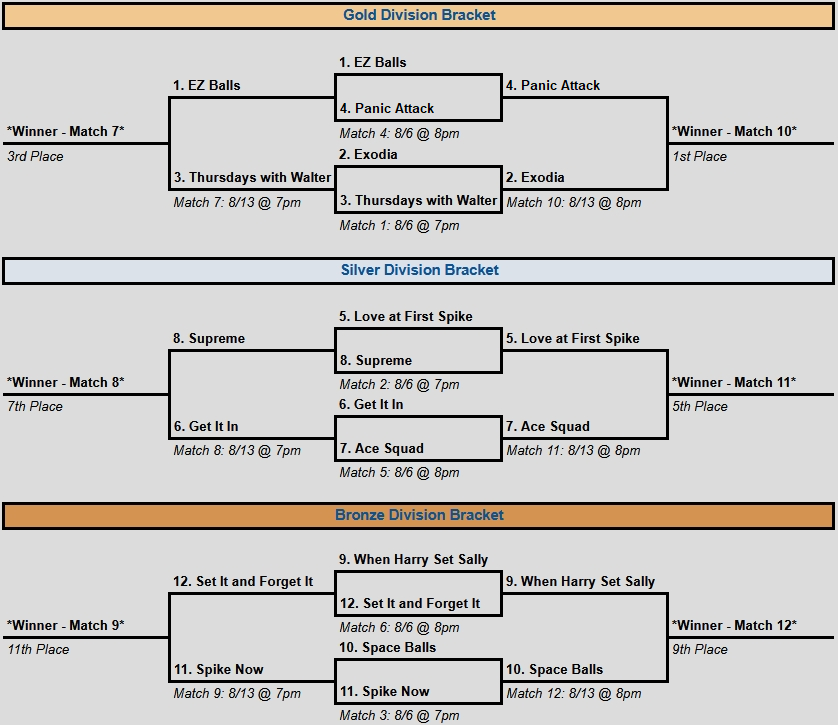
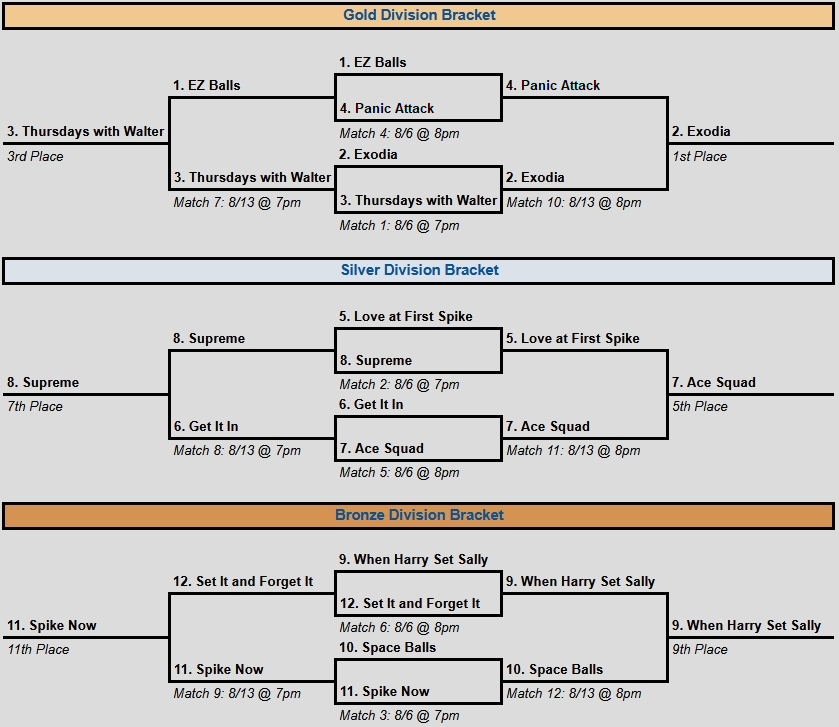
p2 scores

diff --git a/coed/dvb_sum26.html b/coed/dvb_sum26.html
@@ -1678,33 +1678,33 @@
         </tr>
         <tr>
           <td class="box_score_top_team_white">EZ Balls</td>
-          <td class="box_score_top_score_white"></td>
+          <td class="box_score_top_score_white">0</td>
         </tr>
         <tr>
           <td class="box_score_bot_team_white">Thursdays with Walter</td>
-          <td class="box_score_bot_score_white"></td>
+          <td class="box_score_bot_score_white">1</td>
         </tr>
         <tr>
           <th class="box_score_court_white" colspan="2">Court 2 - 7th Place</th>
         </tr>
         <tr>
           <td class="box_score_top_team_white">Supreme</td>
-          <td class="box_score_top_score_white"></td>
+          <td class="box_score_top_score_white">1</td>
         </tr>
         <tr>
           <td class="box_score_bot_team_white">Get It In</td>
-          <td class="box_score_bot_score_white"></td>
+          <td class="box_score_bot_score_white">0</td>
         </tr>
         <tr>
           <th class="box_score_court_white" colspan="2">Court 3 - 11th Place</th>
         </tr>
         <tr>
           <td class="box_score_top_team_white">Set It and Forget It</td>
-          <td class="box_score_top_score_white"></td>
+          <td class="box_score_top_score_white">0</td>
         </tr>
         <tr>
           <td class="box_score_bot_team_white">Spike Now</td>
-          <td class="box_score_bot_score_white"></td>
+          <td class="box_score_bot_score_white">1</td>
         </tr>
         <tr>
           <th class="box_score_8pm" rowspan="9">8 PM</th>
@@ -1712,40 +1712,40 @@
         </tr>
         <tr>
           <td class="box_score_top_team_gray">Panic Attack</td>
-          <td class="box_score_top_score_gray"></td>
+          <td class="box_score_top_score_gray">0</td>
         </tr>
         <tr>
           <td class="box_score_bot_team_gray">Exodia</td>
-          <td class="box_score_bot_score_gray"></td>
+          <td class="box_score_bot_score_gray">1</td>
         </tr>
         <tr>
           <th class="box_score_court_silver" colspan="2">Court 2 - 5th Place</th>
         </tr>
         <tr>
           <td class="box_score_top_team_gray">Love at First Spike</td>
-          <td class="box_score_top_score_gray"></td>
+          <td class="box_score_top_score_gray">0</td>
         </tr>
         <tr>
           <td class="box_score_bot_team_gray">Ace Squad</td>
-          <td class="box_score_bot_score_gray"></td>
+          <td class="box_score_bot_score_gray">1</td>
         </tr>
         <tr>
           <th class="box_score_court_bronze" colspan="2">Court 3 - 9th Place</th>
         </tr>
         <tr>
           <td class="box_score_top_team_gray">When Harry Set Sally</td>
-          <td class="box_score_top_score_gray"></td>
+          <td class="box_score_top_score_gray">1</td>
         </tr>
         <tr>
           <td class="box_score_bot_team_gray">Space Balls</td>
-          <td class="box_score_bot_score_gray"></td>
+          <td class="box_score_bot_score_gray">0</td>
         </tr>
       </table>
     </div>
 
     <div id="BR" style="display:none;margin-left:10px;margin-top:10px;margin-right:10px;margin-bottom:10px;">
       <div>
-        <img title="Bracket" style="height:min(725px,100%);width:min(838px,100%);" src="../images/dvb/dvb_sum26_bracket.png">
+        <img title="Bracket" style="height:min(727px,100%);width:min(839px,100%);" src="../images/dvb/dvb_sum26_bracket.png">
       </div>
     </div>
 
@@ -2091,7 +2091,7 @@
         <tr class="team_page_row_white" id="r2026s9">
           <th class="team_page_results_season_bot"><a href="dvb_sum26.html">Summer</a></th>
           <td class="team_page_results_reg_finish_bot">6th</td>
-          <td class="team_page_results_play_finish_bot" style="background-color:#DBE2E9;">-</td>
+          <td class="team_page_results_play_finish_bot" style="background-color:#DBE2E9;">8th</td>
         </tr>
       </table>
 
@@ -2274,7 +2274,7 @@
         <tr class="team_page_row_white" id="r2026s11">
           <th class="team_page_results_season_bot"><a href="dvb_sum26.html">Summer</a></th>
           <td class="team_page_results_reg_finish_bot">7th</td>
-          <td class="team_page_results_play_finish_bot" style="background-color:#DBE2E9;">-</td>
+          <td class="team_page_results_play_finish_bot" style="background-color:#DBE2E9;">5th &#x1f948;</td>
         </tr>
       </table>
 
@@ -2462,7 +2462,7 @@
         <tr class="team_page_row_white" id="r2026s7">
           <th class="team_page_results_season_bot"><a href="dvb_sum26.html">Summer</a></th>
           <td class="team_page_results_reg_finish_bot">2nd</td>
-          <td class="team_page_results_play_finish_bot" style="background-color:#F2C891;">-</td>
+          <td class="team_page_results_play_finish_bot" style="background-color:#F2C891;">1st &#x1f947;</td>
         </tr>
       </table>
 
@@ -2671,7 +2671,7 @@
         <tr class="team_page_row_white" id="r2026s3">
           <th class="team_page_results_season_bot"><a href="dvb_sum26.html">Summer</a></th>
           <td class="team_page_results_reg_finish_bot">5th</td>
-          <td class="team_page_results_play_finish_bot" style="background-color:#DBE2E9;">-</td>
+          <td class="team_page_results_play_finish_bot" style="background-color:#DBE2E9;">6th</td>
         </tr>
       </table>
 
@@ -2880,7 +2880,7 @@
         <tr class="team_page_row_white" id="r2026s10">
           <th class="team_page_results_season_bot"><a href="dvb_sum26.html">Summer</a></th>
           <td class="team_page_results_reg_finish_bot">3rd</td>
-          <td class="team_page_results_play_finish_bot" style="background-color:#F2C891;">-</td>
+          <td class="team_page_results_play_finish_bot" style="background-color:#F2C891;">3rd</td>
         </tr>
       </table>
 
@@ -3089,7 +3089,7 @@
         <tr class="team_page_row_white" id="r2026s8">
           <th class="team_page_results_season_bot"><a href="dvb_sum26.html">Summer</a></th>
           <td class="team_page_results_reg_finish_bot">4th</td>
-          <td class="team_page_results_play_finish_bot" style="background-color:#F2C891;">-</td>
+          <td class="team_page_results_play_finish_bot" style="background-color:#F2C891;">2nd</td>
         </tr>
       </table>
 
@@ -3277,7 +3277,7 @@
         <tr class="team_page_row_white" id="r2026s5">
           <th class="team_page_results_season_bot"><a href="dvb_sum26.html">Summer</a></th>
           <td class="team_page_results_reg_finish_bot">11th</td>
-          <td class="team_page_results_play_finish_bot" style="background-color:#D59352;">-</td>
+          <td class="team_page_results_play_finish_bot" style="background-color:#D59352;">11th</td>
         </tr>
       </table>
 
@@ -3486,7 +3486,7 @@
         <tr class="team_page_row_white" id="r2026s1">
           <th class="team_page_results_season_bot"><a href="dvb_sum26.html">Summer</a></th>
           <td class="team_page_results_reg_finish_bot">8th</td>
-          <td class="team_page_results_play_finish_bot" style="background-color:#DBE2E9;">-</td>
+          <td class="team_page_results_play_finish_bot" style="background-color:#DBE2E9;">7th</td>
         </tr>
       </table>
 
@@ -3695,7 +3695,7 @@
         <tr class="team_page_row_white" id="r2026s12">
           <th class="team_page_results_season_bot"><a href="dvb_sum26.html">Summer</a></th>
           <td class="team_page_results_reg_finish_bot">1st</td>
-          <td class="team_page_results_play_finish_bot" style="background-color:#F2C891;">-</td>
+          <td class="team_page_results_play_finish_bot" style="background-color:#F2C891;">4th</td>
         </tr>
       </table>
 
@@ -3904,7 +3904,7 @@
         <tr class="team_page_row_white" id="r2026s6">
           <th class="team_page_results_season_bot"><a href="dvb_sum26.html">Summer</a></th>
           <td class="team_page_results_reg_finish_bot">12th</td>
-          <td class="team_page_results_play_finish_bot" style="background-color:#D59352;">-</td>
+          <td class="team_page_results_play_finish_bot" style="background-color:#D59352;">12th</td>
         </tr>
       </table>
 
@@ -4113,7 +4113,7 @@
         <tr class="team_page_row_white" id="r2026s4">
           <th class="team_page_results_season_bot"><a href="dvb_sum26.html">Summer</a></th>
           <td class="team_page_results_reg_finish_bot">9th</td>
-          <td class="team_page_results_play_finish_bot" style="background-color:#D59352;">-</td>
+          <td class="team_page_results_play_finish_bot" style="background-color:#D59352;">9th &#x1f949;</td>
         </tr>
       </table>
 
@@ -4322,7 +4322,7 @@
         <tr class="team_page_row_white" id="r2026s2">
           <th class="team_page_results_season_bot"><a href="dvb_sum26.html">Summer</a></th>
           <td class="team_page_results_reg_finish_bot">10th</td>
-          <td class="team_page_results_play_finish_bot" style="background-color:#D59352;">-</td>
+          <td class="team_page_results_play_finish_bot" style="background-color:#D59352;">10th</td>
         </tr>
       </table>
 
